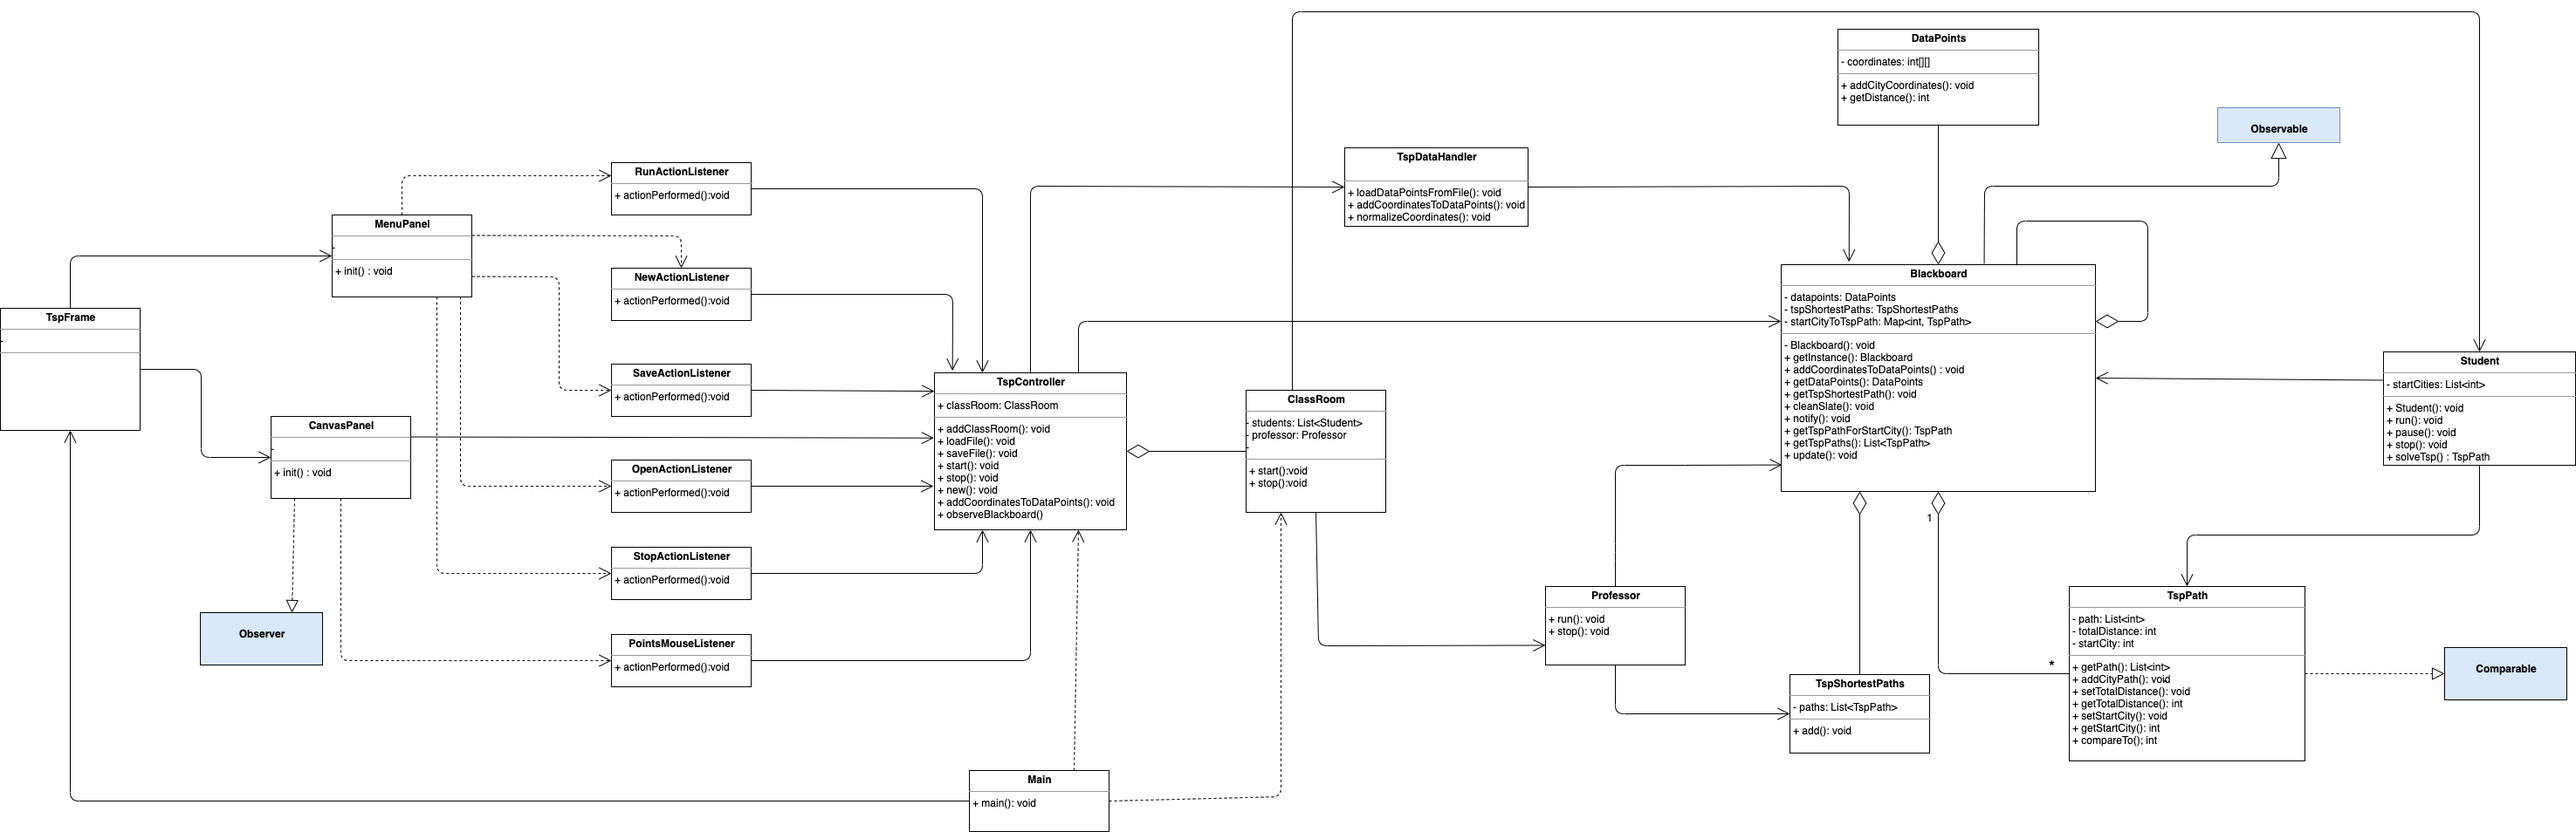
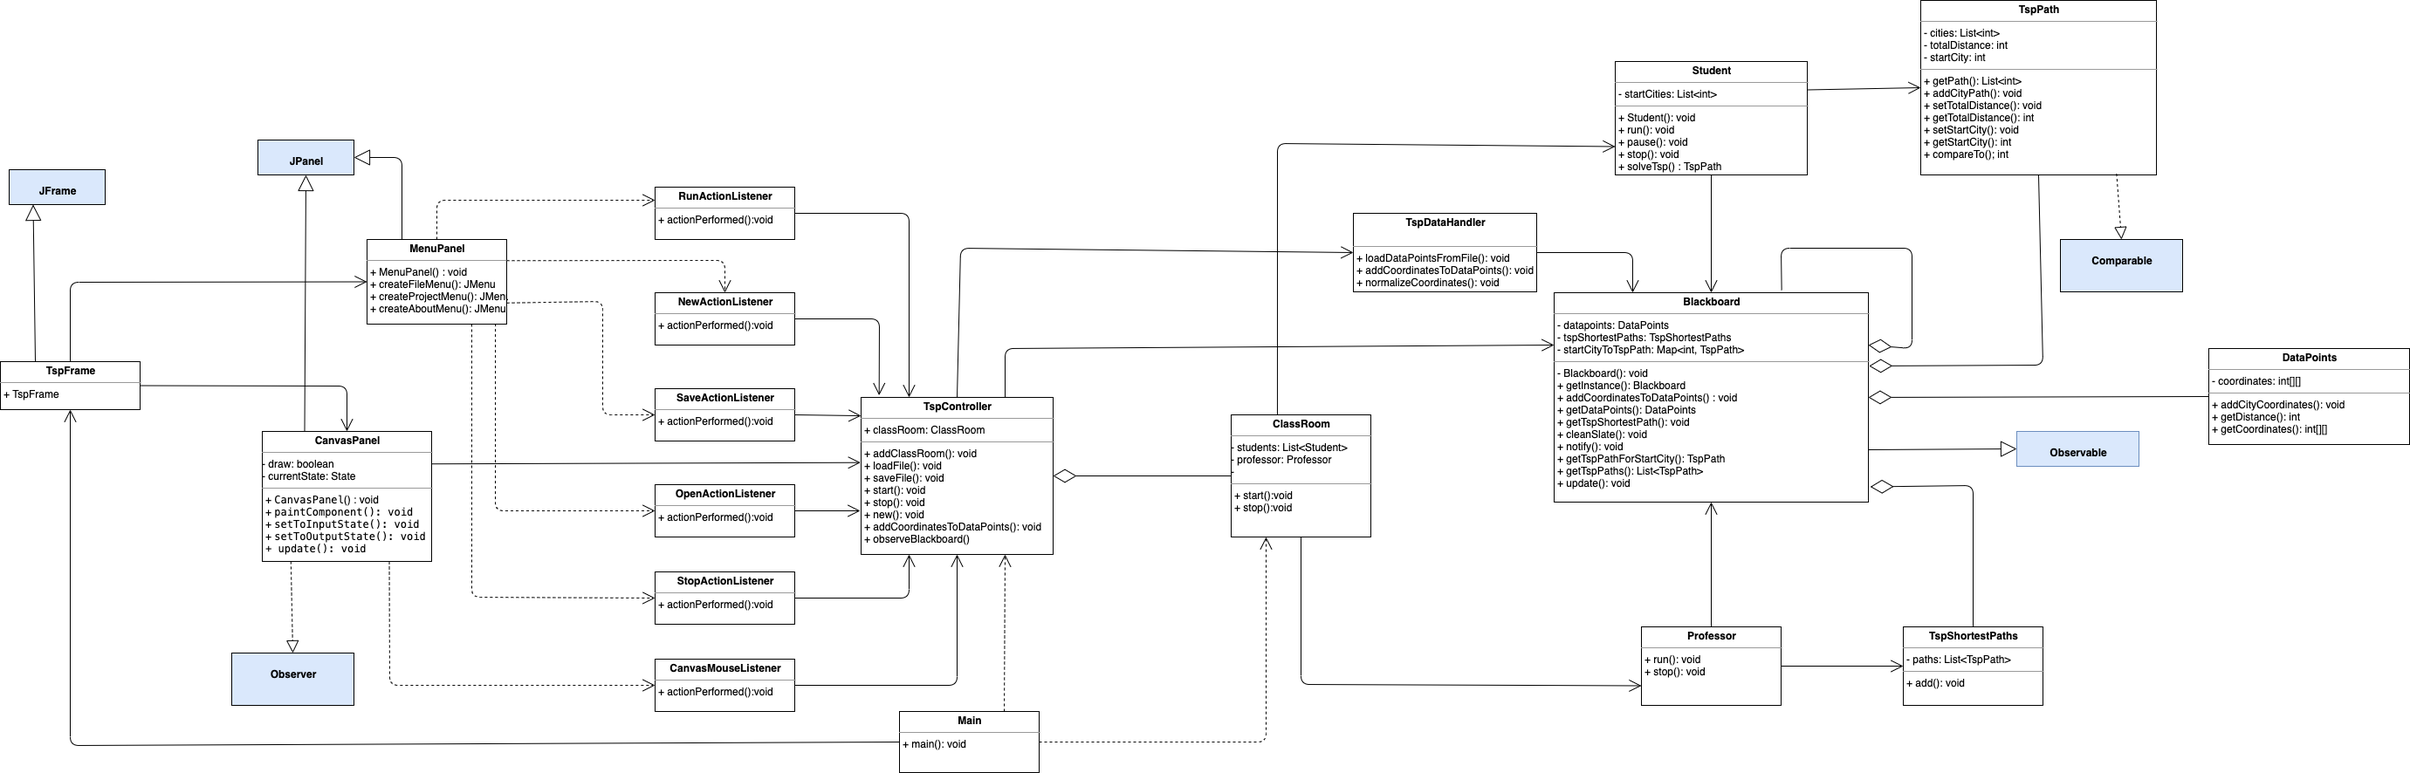
More changes

diff --git a/src/CanvasPanel.java b/src/CanvasPanel.java
@@ -1,5 +1,91 @@
+import java.awt.Color;
+import java.awt.Dimension;
+import java.awt.Graphics;
+import java.util.Observable;
+import java.util.Observer;
+
 import javax.swing.JPanel;
 
-public class CanvasPanel extends JPanel {
+public class CanvasPanel extends JPanel implements Observer {
+	
+	private static final long serialVersionUID = 6981842796760492347L;
+	private boolean draw;
+	private State currentState;
+	
+	public CanvasPanel() {
+		super();
+		setOpaque(true);
+		setBackground(Color.WHITE);
+		addMouseListener(new CanvasMouseListener());
+		setMaximumSize(new Dimension(Integer.MAX_VALUE, Integer.MAX_VALUE));
+		revalidate();
+		currentState = State.INPUT_STATE;
+		draw = false;
+	}
 
+	public void paintComponent(Graphics g) {
+		super.paintComponent(g);
+		if(draw) {
+			if(currentState==State.INPUT_STATE) {
+				// Get DataPoints From blackboard.
+				// Get coordinates from Datapoints.
+				// iterate coordinates
+				// plot coordinates
+				// for(int[] coordinate in coordinates) {
+				//		g.setColor(VISITED_CITY_PAINT_COLOR);
+				//		g.fillOval(coordinate[0], coordinate[1], VISITED_CITY_PAINT_DIAMETER, VISITED_CITY_PAINT_DIAMETER);
+			} else {
+				// Get TspShortestPath.
+				// Clone TspShortestPath.
+				// pathIdx = 0
+				// for(TspPath path : TspShortestPath):
+				//   color = "red"
+				//   switch(pathIdx++):
+				//	    case 1: red
+				//		case 2: blue
+				//		case 3: green
+				//   List<int> cities:path.cities;
+				//   for i = 1 to cities.length
+//					    x1 = cities[i-1][0]
+//					    y1 = cities[i-1][1]
+//					    x2 = cities[i][0]
+//					    y2 = cities[i][1]
+//						g.setColor(color);
+//						g.drawLine(x1 + (VISITED_CITY_PAINT_DIAMETER / 2), y1 + (VISITED_CITY_PAINT_DIAMETER / 2),
+//								x2 + (VISITED_CITY_PAINT_DIAMETER / 2), y2 + (VISITED_CITY_PAINT_DIAMETER / 2));
+//		
+//						g.setColor(VISITED_CITY_PAINT_COLOR);
+//						g.fillOval(x1, y1, VISITED_CITY_PAINT_DIAMETER, VISITED_CITY_PAINT_DIAMETER);
+//		
+//						g.setColor(VISITED_CITY_PAINT_COLOR);
+//						g.fillOval(x2, y2, VISITED_CITY_PAINT_DIAMETER, VISITED_CITY_PAINT_DIAMETER);
+				   
+			}
+		}
+		draw = false;
+	}
+
+	public void setToInputState() {
+		currentState = State.INPUT_STATE;
+	}
+	
+	public void setToOutputState() {
+		currentState = State.OUTPUT_STATE;
+	}
+	
+	
+	enum State {
+		INPUT_STATE,
+		OUTPUT_STATE
+	}
+
+
+	@Override
+	public void update(Observable o, Object arg) {
+		draw = true;
+		repaint();
+	}
+	
 }
+
+

diff --git a/src/MenuPanel.java b/src/MenuPanel.java
@@ -1,4 +1,57 @@
+import java.awt.Dimension;
+import java.awt.FlowLayout;
 
-public class MenuPanel {
+import javax.swing.JMenu;
+import javax.swing.JMenuBar;
+import javax.swing.JMenuItem;
+import javax.swing.JPanel;
+
+public class MenuPanel extends JPanel {
+	
+	MenuPanel() {
+		super(new FlowLayout(FlowLayout.LEFT));
+		JMenuBar menuBar = new JMenuBar();
+		JMenu fileMenu = createFileMenu();
+		JMenu projectMenu = createProjectMenu();
+		JMenu aboutMenu  = createAboutMenu();
+		
+		menuBar.add(fileMenu);
+		menuBar.add(projectMenu);
+		menuBar.add(aboutMenu);
+		add(menuBar);
+		this.setMaximumSize(new Dimension(Integer.MAX_VALUE, 20));
+		
+	}
+	
+	private JMenu createFileMenu() {
+		JMenu fileMenu = new JMenu("File");
+		JMenuItem openMenuItem = new JMenuItem("Open");
+		JMenuItem saveMenuItem = new JMenuItem("Save");
+		
+		fileMenu.add(openMenuItem);
+		fileMenu.add(saveMenuItem);
+		
+		return fileMenu;
+	}
+	
+	private JMenu createProjectMenu() {
+		JMenu projectMenu = new JMenu("Project");
+		JMenuItem newMenuItem = new JMenuItem("New");
+		JMenuItem runMenuItem = new JMenuItem("Run");
+		JMenuItem stopMenuItem = new JMenuItem("Stop");
+		
+		projectMenu.add(newMenuItem);
+		projectMenu.add(runMenuItem);
+		projectMenu.add(stopMenuItem);
+		
+		return projectMenu;
+	}
+	
+	private JMenu createAboutMenu() {
+		JMenu aboutMenu = new JMenu("About");
+		return aboutMenu;
+	}
+	
+	
 
 }

diff --git a/src/CanvasMouseListener.java b/src/CanvasMouseListener.java
@@ -1,0 +1,37 @@
+import java.awt.event.MouseEvent;
+import java.awt.event.MouseListener;
+
+public class CanvasMouseListener implements MouseListener{
+	
+	@Override
+	public void mouseClicked(MouseEvent e) {
+		int x = e.getX();
+		int y = e.getY();
+		//TspController.addCoordinatesToDataPoints(x, y)
+	}
+
+	@Override
+	public void mousePressed(MouseEvent e) {
+		// TODO Auto-generated method stub
+		
+	}
+
+	@Override
+	public void mouseReleased(MouseEvent e) {
+		// TODO Auto-generated method stub
+		
+	}
+
+	@Override
+	public void mouseEntered(MouseEvent e) {
+		// TODO Auto-generated method stub
+		
+	}
+
+	@Override
+	public void mouseExited(MouseEvent e) {
+		// TODO Auto-generated method stub
+		
+	}
+
+}

diff --git a/src/TspFrame.java b/src/TspFrame.java
@@ -1,5 +1,21 @@
+import javax.swing.BoxLayout;
 import javax.swing.JFrame;
 
 public class TspFrame extends JFrame {
 
+	TspFrame(){
+		setDefaultCloseOperation(JFrame.EXIT_ON_CLOSE);
+		setExtendedState(JFrame.MAXIMIZED_BOTH);
+		setLayout(new BoxLayout(getContentPane(), BoxLayout.Y_AXIS));
+		
+		MenuPanel menuPanel = new MenuPanel();
+		getContentPane().add(menuPanel);
+		
+		CanvasPanel canvasPanel = new CanvasPanel();
+		getContentPane().add(canvasPanel);
+		
+		setVisible(true);
+		pack();
+		
+	}	
 }

diff --git a/src/Main.java b/src/Main.java
@@ -3,7 +3,8 @@ public class Main {
 	
 	
 	public static void main(String[] args) {
-		
+		TspFrame frame = new TspFrame();
+		frame.open();
 	}
 
 }

diff --git a/src/TspController.java b/src/TspController.java
@@ -1,7 +1,4 @@
 
 public class TspController {
-	
-	
-
 
 }
